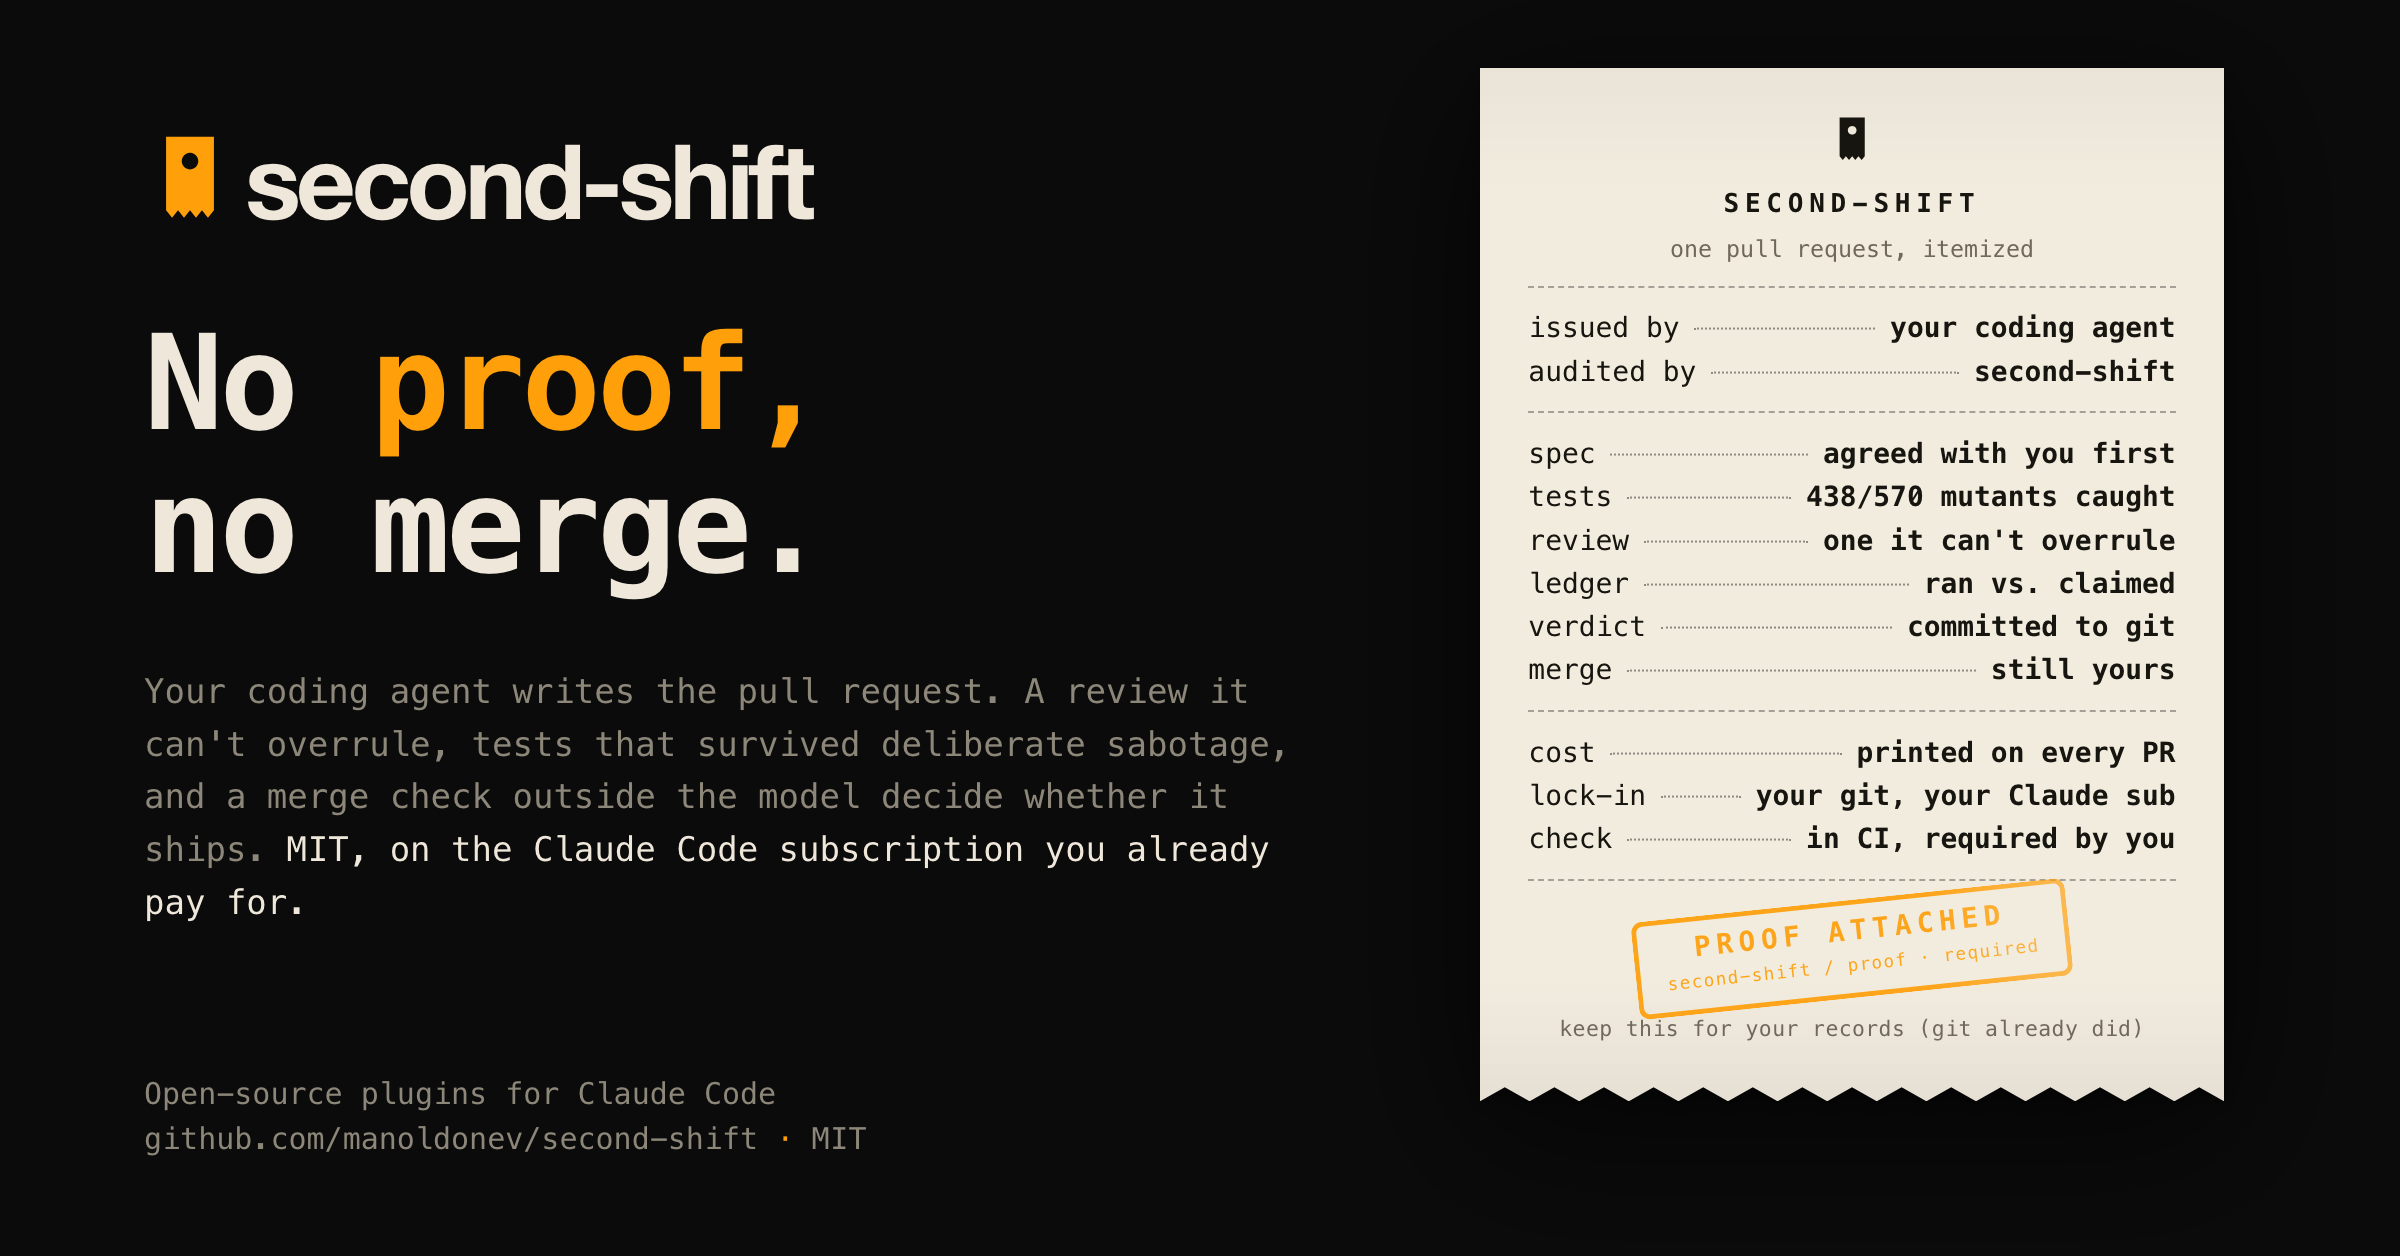
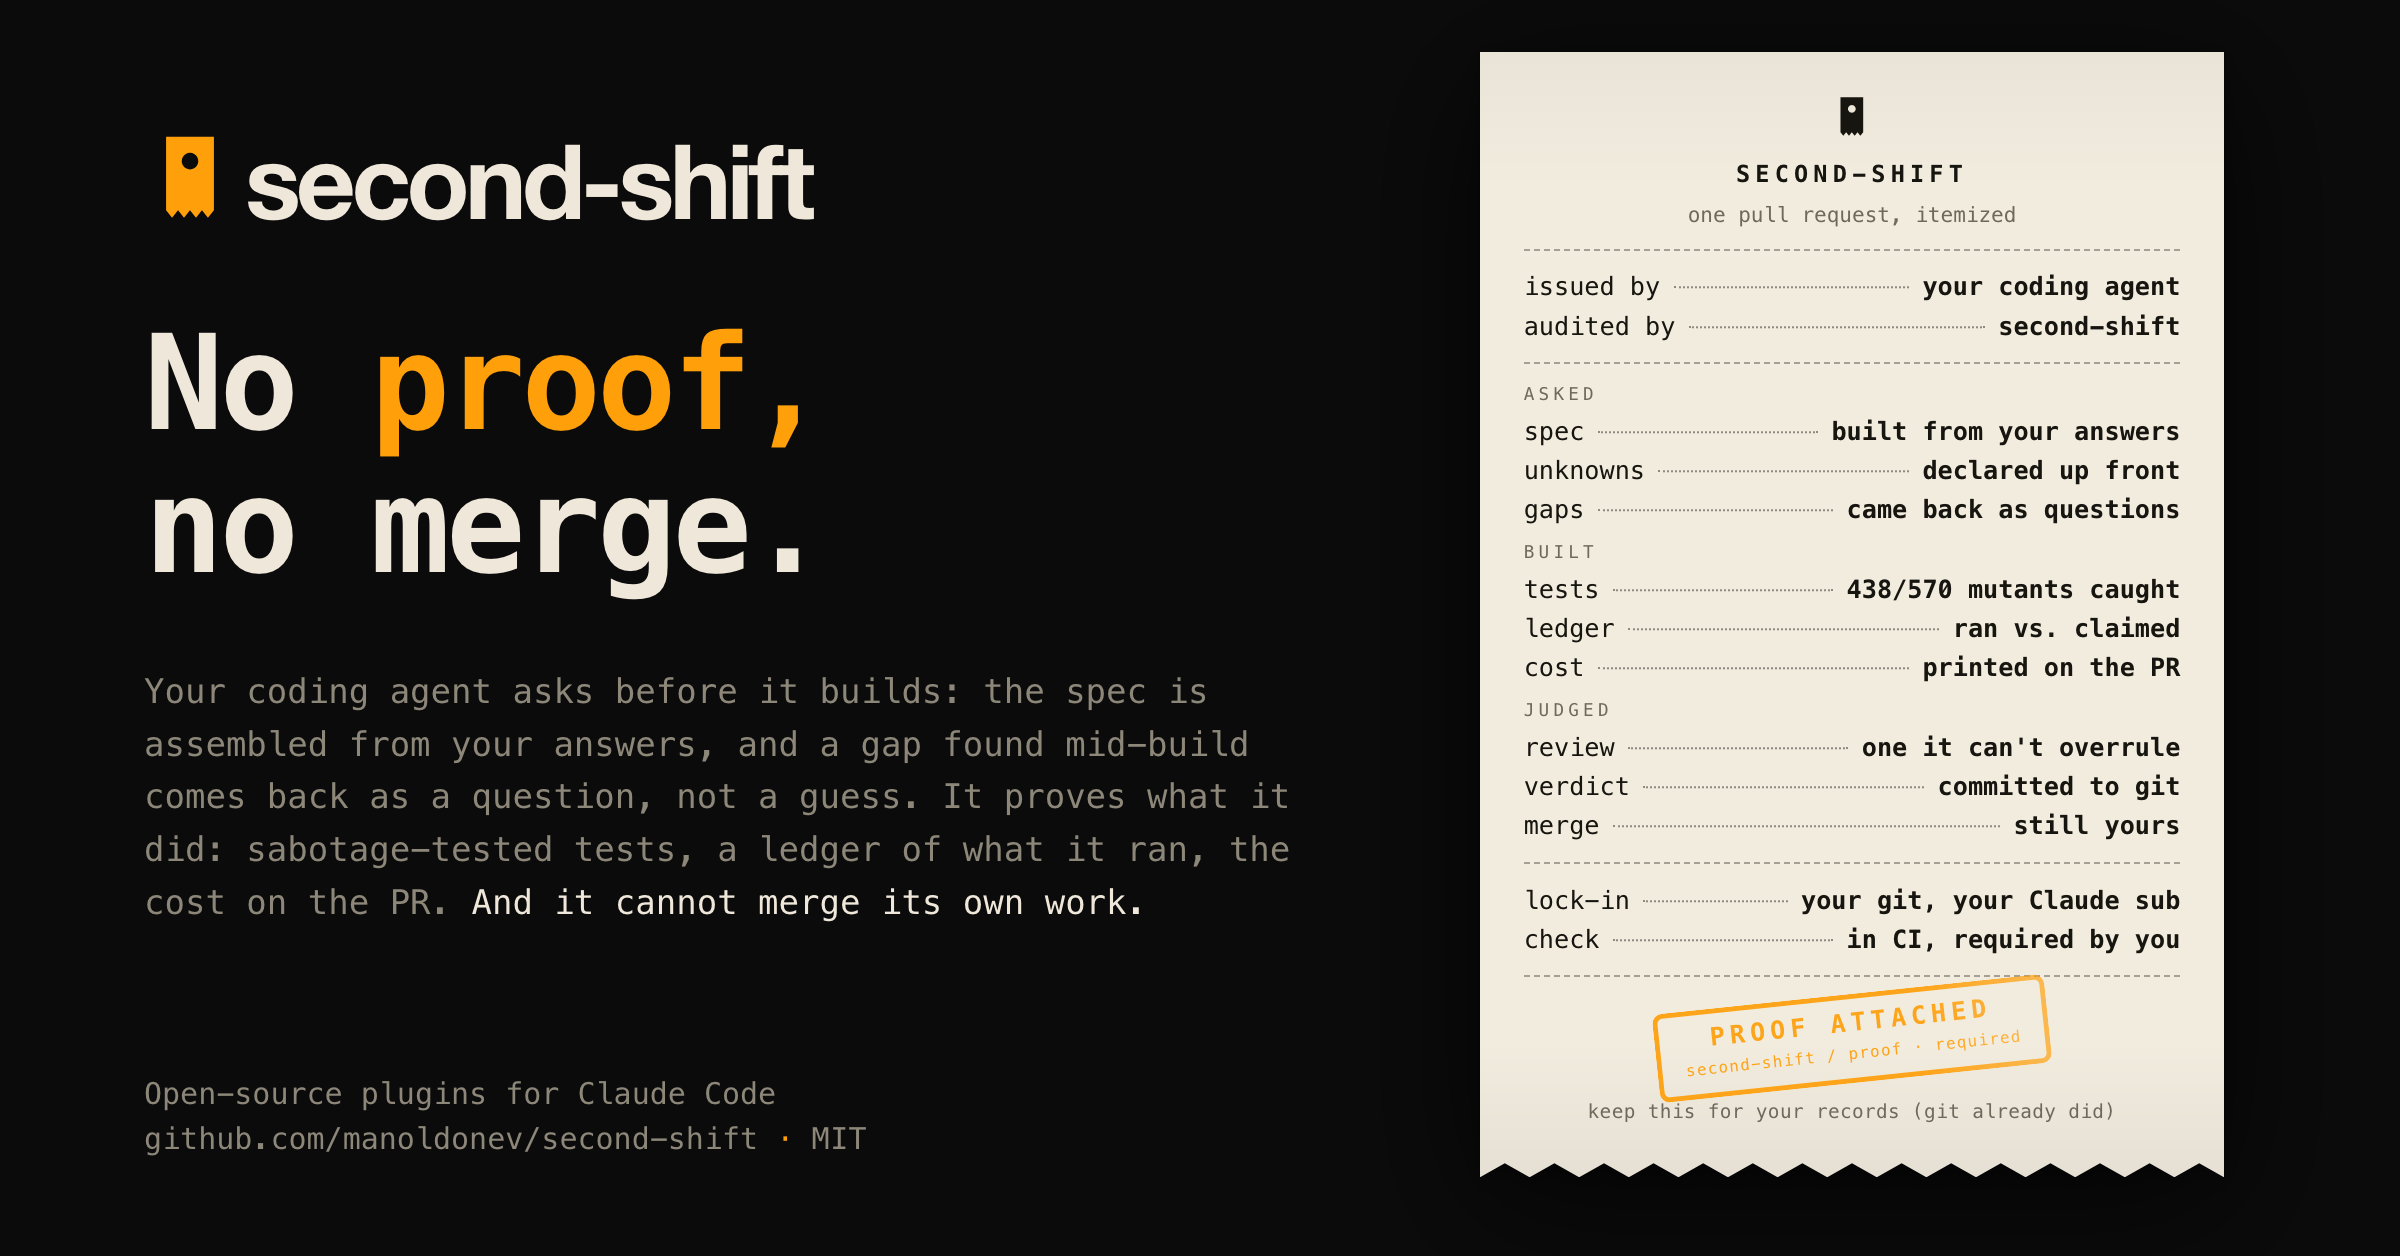
docs: brand v4 — intake is a third of the receipt; mobile-first renders
The README lead and the hero now carry three legs of equal weight: asks before it
builds (intake), proves what it did (build), cannot merge its own work (review and
the merge boundary). The receipt is regrouped accordingly. Feed renders were
rebuilt so the receipt is the whole image at phone-legible sizes.

Changelog: none

Claude-Session: https://claude.ai/code/session_016HPYdiRpPEvn389zAjVXRU

diff --git a/README.md b/README.md
@@ -1,12 +1,12 @@
 <p align="center">
-  <img src="docs/second-shift-banner.png" alt="second-shift — no proof, no merge. Your coding agent writes the pull request; a review it can't overrule, tests that survived deliberate sabotage, and a merge check outside the model decide whether it ships." width="800">
+  <img src="docs/second-shift-banner.png" alt="second-shift — no proof, no merge. Your coding agent asks before it builds, proves what it did, and cannot merge its own work."" width="800">
 </p>
 
 # second-shift
 
 > No proof, no merge.
 
-**second-shift** is a set of open-source [Claude Code](https://claude.com/claude-code) plugins for autonomous development. Your coding agent takes a ticket and writes the pull request. What decides whether that PR ships is not the agent's word: a review from a session that did not write the code, tests that survived deliberate sabotage, a record of what the agent actually ran, and a merge check in CI that reads those records and refuses when any is missing. The cost of the run is printed on every PR. The merge button stays yours.
+**second-shift** is a set of open-source [Claude Code](https://claude.com/claude-code) plugins for autonomous development. It asks before it builds: the spec is assembled from decisions you ratified one at a time, unknowns are declared on the ticket, and a gap found mid-build comes back as a question rather than a silent guess. It proves what it did: tests that survived deliberate sabotage, a ledger of what the agent actually ran versus what it claimed, and the cost printed on every PR. And it cannot merge its own work: the review runs in a separate session it cannot overrule, the verdict is committed to git, and a merge check in CI refuses when any record is missing. The merge button stays yours.
 
 It runs on the Claude Code subscription you already pay for, in your repo, in plain git. One config file onboards a repo; the plugins hold nothing repo-specific.
 
